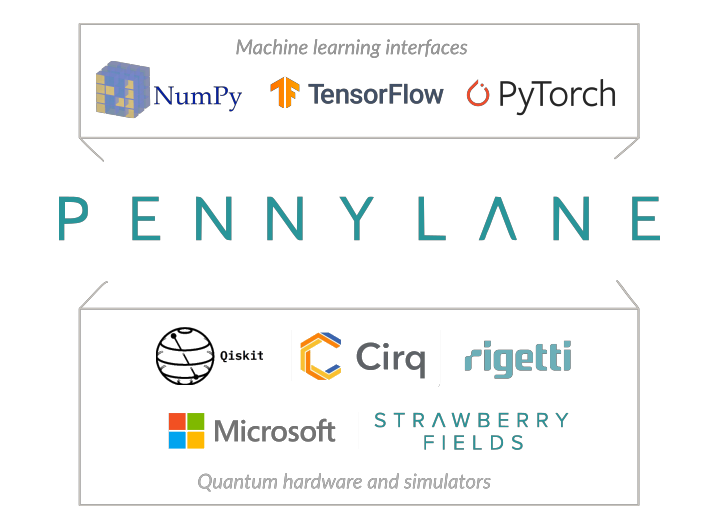
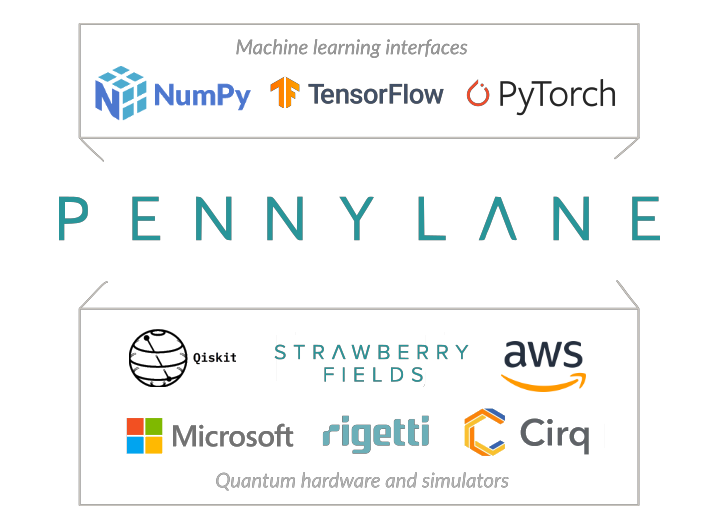
Update readme and graphics (#957)
* updates

* change readme header

diff --git a/README.md b/README.md
@@ -39,7 +39,7 @@
 
 <p align="center">
   <strong>Train a quantum computer the same way as a neural network.</strong>
-  <img src="https://raw.githubusercontent.com/PennyLaneAI/pennylane/master/doc/_static/jigsaw.png" width="700px">
+  <img src="https://raw.githubusercontent.com/PennyLaneAI/pennylane/master/doc/_static/header.png" width="700px">
 </p>
 
 
@@ -51,7 +51,7 @@
 
 - *Device independent*. Run the same quantum circuit on different quantum backends. Install
   [plugins](https://pennylane.ai/plugins.html) to access even more devices, including **Strawberry
-  Fields**, **IBM Q**, **Google Cirq**, **Rigetti Forest**, **Qulacs**, **Pasqal**, **Honeywell**, and more.
+  Fields**, **Amazon Braket**, **IBM Q**, **Google Cirq**, **Rigetti Forest**, **Qulacs**, **Pasqal**, **Honeywell**, and more.
 
 - *Follow the gradient*. Hardware-friendly **automatic differentiation** of quantum circuits.
 

diff --git a/doc/index.rst b/doc/index.rst
@@ -106,7 +106,7 @@ Features
 - *Device independent*.
   The same quantum circuit model can be **run on different backends**. Install
   `plugins <https://pennylane.ai/plugins.html>`_ to access even more
-  devices, including **Strawberry Fields**, **IBM Q**, **Google Cirq**, **Rigetti Forest**,
+  devices, including **Strawberry Fields**, **Amazon Braket**, **IBM Q**, **Google Cirq**, **Rigetti Forest**,
   **Microsoft QDK**, and **ProjectQ**.
 
 
